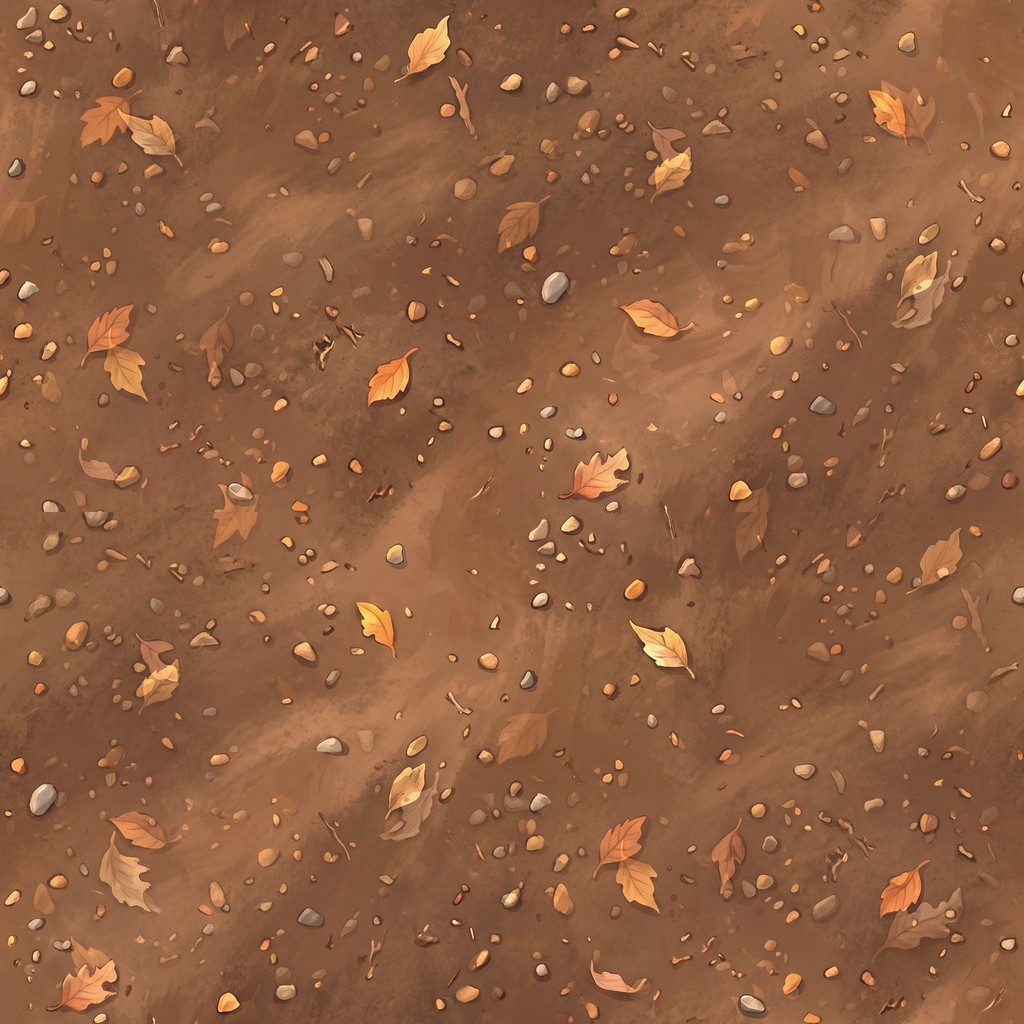
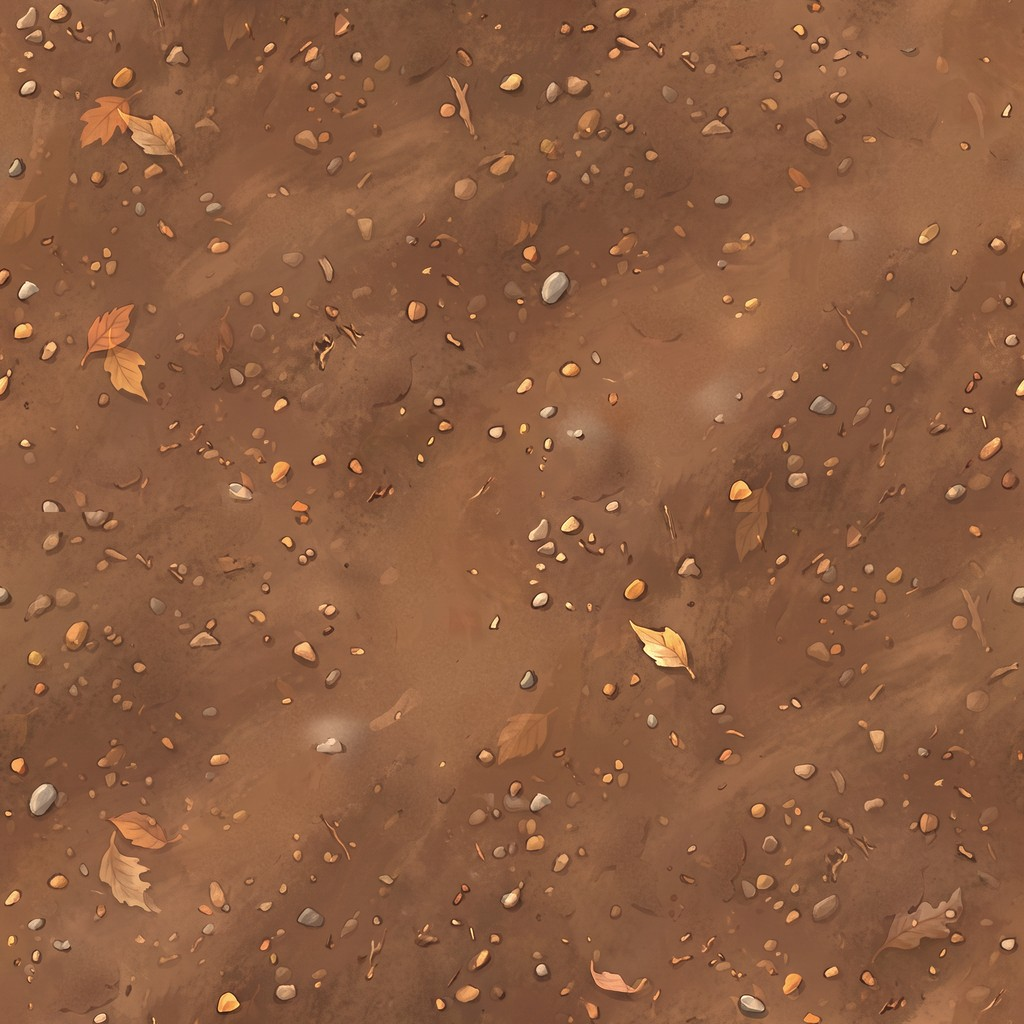
Меньше листьев на дорожках
Большая часть опавших листьев убрана из текстуры земли (осталось
около 30%), чтобы дорожка не перетягивала внимание. Камушки и
фактура земли на месте.

diff --git a/sw.js b/sw.js
@@ -1,7 +1,7 @@
 // Service worker: позволяет игре работать без интернета.
 // Стратегия: сразу отдаём сохранённую копию, а в фоне скачиваем свежую версию.
 // Поэтому обновление игры у игрока появляется со второго запуска.
-const CACHE = 'farm-v5';
+const CACHE = 'farm-v6';
 const CORE = [
   './',
   './index.html',
